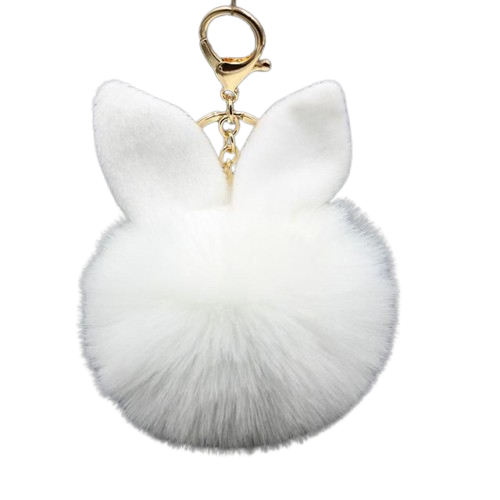
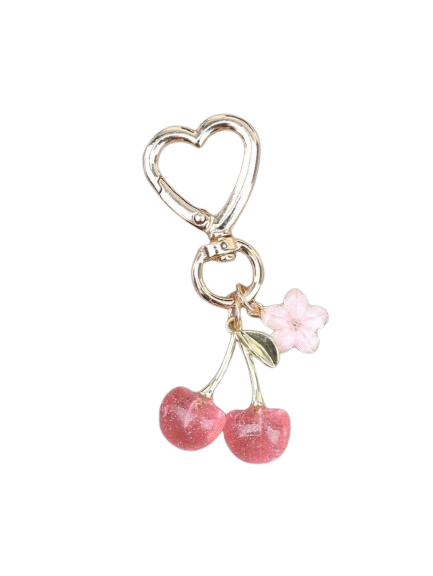
Update Masala Beads homepage hero

Changed region(s): [[0.1501, 0.0, 0.8106, 0.93], [0.6605, 0.54, 0.6905, 0.57]]

diff --git a/src/routes/index.tsx b/src/routes/index.tsx
@@ -407,6 +407,184 @@ function Hero() {
   );
 }
 
+function HeroCarousel() {
+  const heroCards = [
+    { label: "Jewelry", image: catJewelry, href: "#jewelry" },
+    { label: "Bags", image: catBags, href: "#bags" },
+    { label: "Stationery", image: catStationery, href: "#stationery" },
+    { label: "Gifts", image: bottle, href: "#gifts" },
+  ];
+  const heroFloaters = [
+    {
+      image: bottle,
+      className: "left-[7%] top-[34%] w-24 xl:left-[10%] xl:w-28",
+      imageClassName: "rounded-[1.7rem]",
+      rotate: "-12deg",
+      driftX: "14px",
+      driftY: "-18px",
+      duration: 5.8,
+      delay: -0.6,
+    },
+    {
+      image: necklace,
+      className: "right-[11%] top-[27%] w-28 xl:right-[14%] xl:w-32",
+      imageClassName: "rounded-[1.7rem]",
+      rotate: "13deg",
+      driftX: "-16px",
+      driftY: "14px",
+      duration: 6.4,
+      delay: -1.8,
+    },
+    {
+      image: preloaderImage,
+      className: "left-[14%] top-[12%] w-28 opacity-70 xl:left-[19%] xl:w-32",
+      imageClassName: "object-contain",
+      rotate: "8deg",
+      driftX: "-12px",
+      driftY: "16px",
+      duration: 7.2,
+      delay: -2.4,
+    },
+    {
+      image: keychain,
+      className: "right-[7%] top-[13%] w-24 xl:right-[10%] xl:w-28",
+      imageClassName: "rounded-[1.7rem]",
+      rotate: "-9deg",
+      driftX: "18px",
+      driftY: "-12px",
+      duration: 6.1,
+      delay: -3.1,
+    },
+  ];
+
+  return (
+    <section
+      className="relative overflow-hidden px-4 pb-8 pt-[100px] sm:px-6 sm:pb-10 sm:pt-[104px] lg:px-10"
+      style={{
+        background:
+          "linear-gradient(180deg, var(--color-ivory) 0%, var(--color-cream) 54%, color-mix(in oklab, var(--color-blush) 18%, var(--color-cream)) 100%)",
+      }}
+    >
+      <div className="pointer-events-none absolute inset-0 z-0 hidden overflow-hidden lg:block" aria-hidden="true">
+        {heroFloaters.map((item, i) => (
+          <div
+            key={i}
+            className={`absolute aspect-square ${item.className}`}
+            style={{
+              "--hero-rotate": item.rotate,
+              "--hero-drift-x": item.driftX,
+              "--hero-drift-y": item.driftY,
+              animation: `hero-float-showcase ${item.duration}s ease-in-out ${item.delay}s infinite`,
+              transformStyle: "preserve-3d",
+              filter: "drop-shadow(0 26px 28px rgba(92, 47, 60, 0.16))",
+            } as CSSProperties}
+          >
+            <img
+              src={item.image}
+              alt=""
+              className={`h-full w-full ${item.imageClassName.includes("object-contain") ? "" : "object-cover"} ${item.imageClassName}`}
+              style={{
+                transform: "translateZ(28px)",
+              }}
+            />
+          </div>
+        ))}
+      </div>
+
+      <div className="relative z-10 mx-auto flex min-h-[calc(100svh-104px)] max-w-[1500px] flex-col items-center justify-start">
+        <div className="relative z-10 mx-auto max-w-3xl text-center">
+          <div className="mb-1 flex items-center justify-center gap-8 text-xl sm:text-2xl" style={{ color: "var(--color-rose)" }}>
+            <span aria-hidden="true">*</span>
+            <p className="script">New Collection</p>
+            <span aria-hidden="true">*</span>
+          </div>
+          <h1
+            className="serif text-[clamp(2.85rem,5.45vw,5rem)] leading-[0.94] tracking-[-0.03em]"
+            style={{ color: "var(--color-maroon)" }}
+          >
+            Little things
+            <br />
+            you'll love a lot.
+          </h1>
+          <p className="mx-auto mt-3 max-w-md text-sm leading-relaxed sm:text-base" style={{ color: "var(--color-espresso)" }}>
+            Cute accessories, thoughtful gifts and everyday finds made to brighten your style.
+          </p>
+          <a href="#new" className="btn-primary mx-auto mt-5 justify-center px-9">
+            Shop new arrivals
+          </a>
+        </div>
+
+        <div className="relative mt-6 w-full max-w-[1180px] sm:mt-7">
+          <div
+            className="relative overflow-hidden rounded-[2rem] border shadow-[0_26px_80px_-54px_rgba(62,37,45,0.5)] sm:rounded-[3rem]"
+            style={{
+              borderColor: "color-mix(in oklab, var(--color-rose) 16%, transparent)",
+              background: "var(--color-ivory)",
+            }}
+          >
+            <img
+              src={hero}
+              alt="Masala Beads accessories styled on soft fabric"
+              className="h-[330px] w-full object-cover sm:h-[400px] lg:h-[480px]"
+            />
+            <div
+              className="absolute inset-0"
+              style={{
+                background:
+                  "linear-gradient(180deg, color-mix(in oklab, var(--color-ivory) 8%, transparent) 0%, transparent 62%, color-mix(in oklab, var(--color-blush) 14%, transparent) 100%)",
+              }}
+            />
+          </div>
+
+          <div className="relative z-10 mx-auto -mt-16 grid max-w-[760px] grid-cols-2 gap-3 sm:-mt-24 sm:grid-cols-4 sm:gap-5">
+            {heroCards.map((card) => (
+              <a
+                key={card.label}
+                href={card.href}
+                className="group overflow-hidden rounded-2xl border p-3 text-center shadow-[0_18px_44px_-28px_rgba(62,37,45,0.42)] transition-transform hover:-translate-y-1"
+                style={{
+                  background: "color-mix(in oklab, var(--color-ivory) 93%, var(--color-blush))",
+                  borderColor: "color-mix(in oklab, var(--color-rose) 16%, transparent)",
+                }}
+              >
+                <div className="mx-auto aspect-square w-20 overflow-hidden rounded-xl sm:w-24">
+                  <img
+                    src={card.image}
+                    alt=""
+                    loading="lazy"
+                    className="h-full w-full object-cover transition-transform duration-700 group-hover:scale-105"
+                  />
+                </div>
+                <p className="serif mt-3 text-xl leading-none" style={{ color: "var(--color-maroon)" }}>
+                  {card.label}
+                </p>
+                <p className="mt-2 text-[11px] font-medium" style={{ color: "var(--color-rose)" }}>
+                  Shop Now <span aria-hidden="true">-&gt;</span>
+                </p>
+              </a>
+            ))}
+          </div>
+        </div>
+      </div>
+      <style>{`
+        @keyframes hero-float-showcase {
+          0%, 100% {
+            transform: perspective(900px) translate3d(0, 0, 0) rotate(var(--hero-rotate)) rotateX(8deg) rotateY(-10deg) scale(1);
+          }
+          50% {
+            transform: perspective(900px) translate3d(var(--hero-drift-x), var(--hero-drift-y), 34px) rotate(calc(var(--hero-rotate) + 4deg)) rotateX(15deg) rotateY(9deg) scale(1.035);
+          }
+        }
+
+        @media (prefers-reduced-motion: reduce) {
+          [style*="hero-float-showcase"] {
+            animation: none !important;
+          }
+        }
+      `}</style>
+    </section>
+  );
+}
 /* --------------------------- Reveal helper --------------------------- */
 
 function Reveal({ children, delay = 0, className = "" }: { children: React.ReactNode; delay?: number; className?: string }) {
@@ -1166,15 +1344,15 @@ function ConceptCredit() {
       className="relative overflow-hidden px-6 py-20 sm:py-24 lg:px-10 lg:py-32"
       style={{
         background:
-          "linear-gradient(180deg, var(--color-cream) 0%, color-mix(in oklab, var(--color-blush) 42%, var(--color-ivory)) 100%)",
+          "linear-gradient(180deg, var(--color-ivory) 0%, var(--color-cream) 58%, color-mix(in oklab, var(--color-blush) 18%, var(--color-cream)) 100%)",
         color: "var(--color-maroon)",
       }}
     >
       <div
-        className="pointer-events-none absolute inset-0 opacity-45"
+        className="pointer-events-none absolute inset-0 opacity-35"
         style={{
           background:
-            "radial-gradient(circle at 82% 14%, color-mix(in oklab, var(--color-rose) 18%, transparent) 0%, transparent 32%), radial-gradient(circle at 10% 90%, color-mix(in oklab, var(--color-blush-deep) 14%, transparent) 0%, transparent 34%)",
+            "radial-gradient(circle at 82% 14%, color-mix(in oklab, var(--color-rose) 8%, transparent) 0%, transparent 34%), radial-gradient(circle at 10% 90%, color-mix(in oklab, var(--color-blush-deep) 7%, transparent) 0%, transparent 36%)",
         }}
       />
       <div className="relative mx-auto flex min-h-[560px] max-w-[1200px] flex-col justify-between gap-16">
@@ -1360,11 +1538,10 @@ function Home() {
     <div className="min-h-screen">
       <Preloader />
       <div className="fixed top-0 left-0 right-0 z-50">
-        <Announcement />
         <Header />
       </div>
       <main>
-        <Hero />
+        <HeroCarousel />
         <ShopByMood />
         <CategoryAtlas />
         <Bestsellers />
